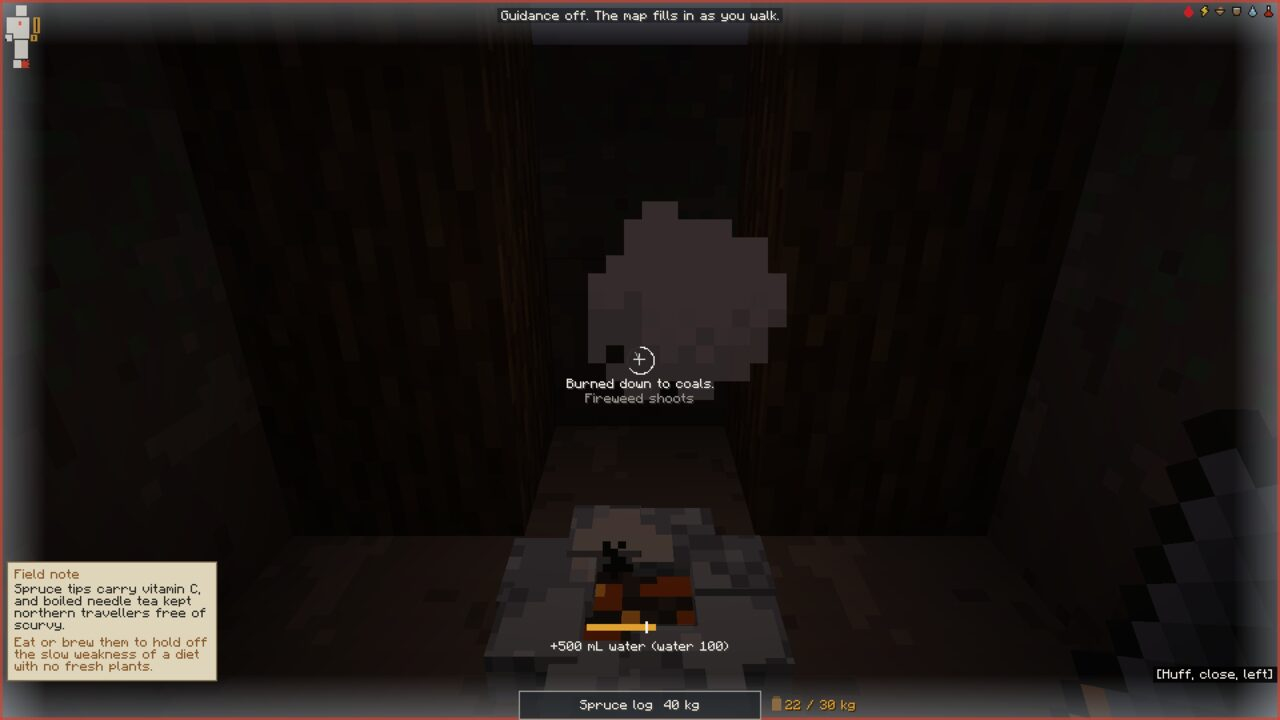
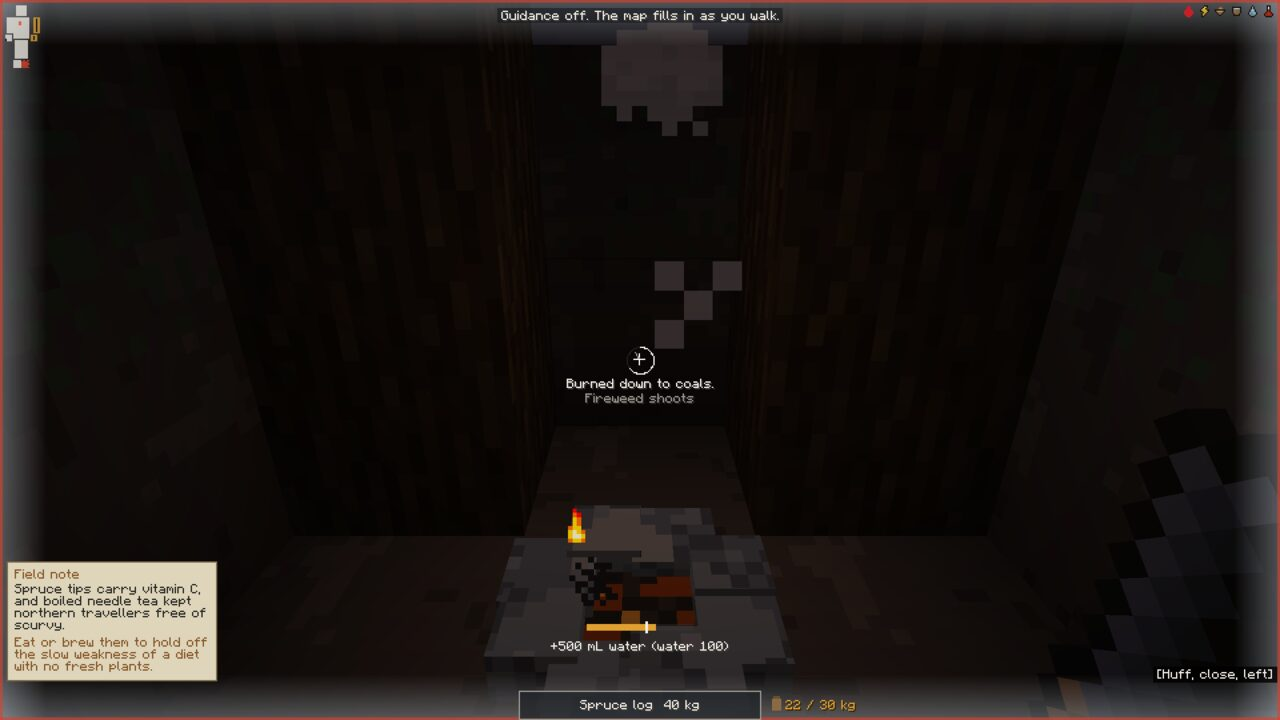
test(m7): proxy v7 (gate), RESULT PASS (birch night fire, full load before sleep)
Claude-Session: https://claude.ai/code/session_01Xr2CVpzoZ636TDaUZHoGmj

diff --git a/src/main/java/com/yearofice/body/debug/WeekDriver.java b/src/main/java/com/yearofice/body/debug/WeekDriver.java
@@ -306,10 +306,10 @@ public final class WeekDriver {
         if (ring != null && !ring.isRemoved() && tick % 20 == 0) {
             String st = ring.fire().state().name();
             if ((st.equals("OUT") || st.equals("BANKED")) && (h >= 16.5 || h < 6) && once("relight" + (m / 30), m)) lightFire(p, m);
-            else if ((st.equals("FIRE") || st.equals("SMALL") || st.equals("COALS")) && ring.fire().armloads() < (p.isSleeping() ? 0.25 : 0.8)) {
+            else if ((st.equals("FIRE") || st.equals("SMALL") || st.equals("COALS")) && ring.fire().armloads() < (p.isSleeping() ? 0.1 : (night || h >= 21.5) ? 4.0 : 0.8)) {
                 var ft = com.yearofice.fire.FireConfig.tuning();
                 int fed = 0;
-                for (int i = 0; i < 12; i++) if (ring.addPart(new ItemStack(net.minecraft.world.item.Items.SPRUCE_LOG), ft, p).ok()) fed++; else break;
+                for (int i = 0; i < 12; i++) if (ring.addPart(new ItemStack(night || h >= 21.5 ? net.minecraft.world.item.Items.BIRCH_LOG : net.minecraft.world.item.Items.SPRUCE_LOG), ft, p).ok()) fed++; else break;
                 if (fed > 0) { if (p.isSleeping()) body.wake(p, "tends the fire"); chore("fire", 1.5); }
             }
         }
@@ -394,10 +394,10 @@ public final class WeekDriver {
         pend.addAll(toAdd);
         if (Math.floorMod(m, 1440L) / 60 == 6 && day >= 2 && did.add("morning" + day)) {
             double metaCap = com.yearofice.sim.body.Metabolism.energyCap(s.balance24h(), s.bmi(), s.water, s.awakeMin, s.gutIll(m));
-            String why = s.bmi() < 18.5 ? "thin" : s.balance24h() < -1500 ? "hungry" : s.water < 30 ? "thirsty" : s.gutIll(m) ? "gut" : "tired";
+            String why = switch (s.lastCapCause) { case 0 -> "none"; case 1 -> "hungry"; case 2 -> "thin"; case 3 -> "thirsty"; case 4 -> "gut"; case 5 -> "awake"; default -> "ill"; };
             StringBuilder ill = new StringBuilder();
             for (var a : s.ill) ill.append(a).append(' ');
-            log(String.format(java.util.Locale.ROOT, "MORNING d%d energy %.1f cap %.1f | rest line messenger.yearofice.vitals.capped(%d, messenger.yearofice.vitals.cause.%s [client-inferred from synced vitals]) | engine: metabolic cap %.1f, illness active [%s], awakeMin %d, balance24h %.0f, water %.0f | macro 72h carb %.2f fat %.2f protein %.2f",
+            log(String.format(java.util.Locale.ROOT, "MORNING d%d energy %.1f cap %.1f | rest line messenger.yearofice.vitals.capped(%d, messenger.yearofice.vitals.cause.%s [synced capCause]) | engine: metabolic cap %.1f, illness active [%s], awakeMin %d, balance24h %.0f, water %.0f | macro 72h carb %.2f fat %.2f protein %.2f",
                     day, s.energy, s.lastEnergyCap, Math.round(s.lastEnergyCap), why, metaCap, ill.toString().trim(), s.awakeMin, s.balance24h(), s.water, s.macroMeter(0), s.macroMeter(1), s.macroMeter(2)));
             if (s.lastEnergyCap < 8) failures.add("morning energy cap " + fmt(s.lastEnergyCap) + " < 8 on day " + day);
         }
